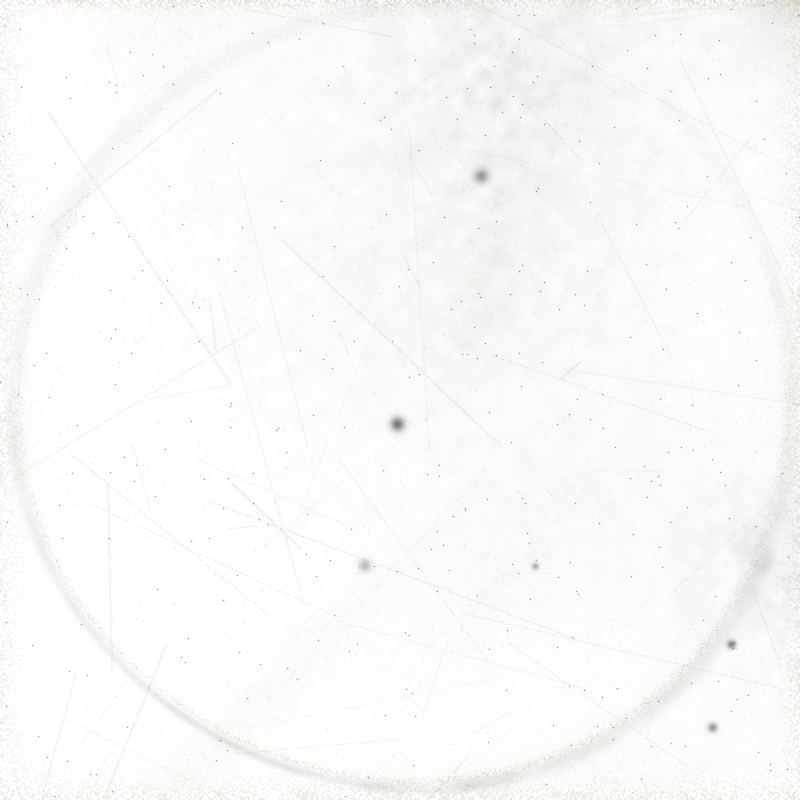
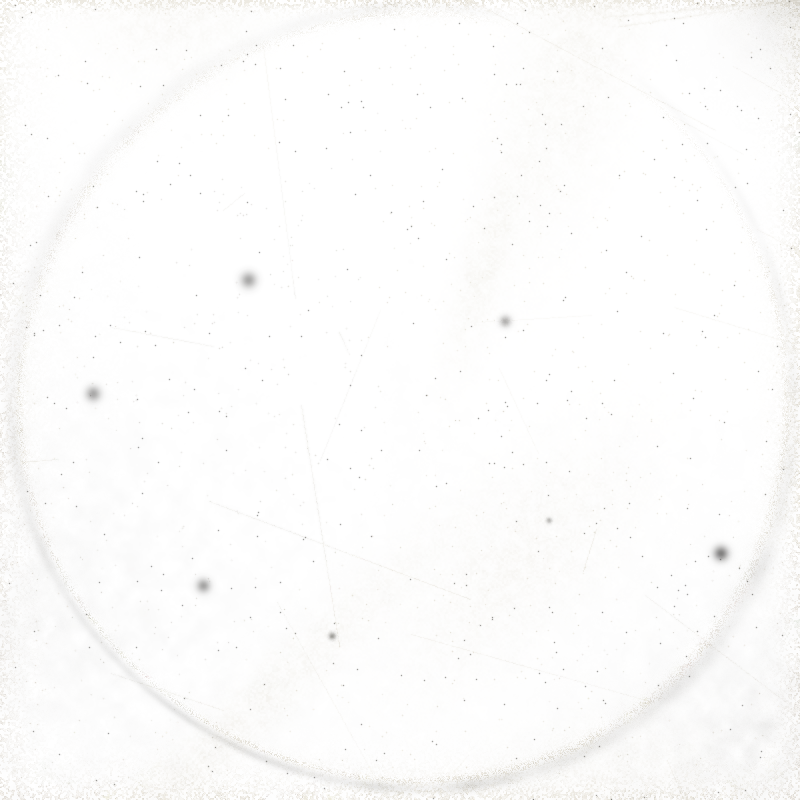
40: wear keyed to cover tone; no stickers; scratches halved and softened
Intensity now scales with how light the cover is: dark covers sit at
medium, pale covers (José González, Andy Shauf) wear heavy so the grime
carries it. Sticker residue is gone. Hairlines are half as many, fainter,
log-spread in length, wander in heading and sometimes break.

Claude-Session: https://claude.ai/code/session_01PbqXtG5SizYecEWh39Pkkj

diff --git a/scripts/make-wear.py b/scripts/make-wear.py
@@ -25,7 +25,7 @@ def blur(a, r):
     if r <= 0: return a
     return np.asarray(Image.fromarray((np.clip(a, 0, 1) * 255).astype(np.uint8)).filter(ImageFilter.GaussianBlur(r))).astype(np.float32) / 255
 
-def make(slug, year=None):
+def make(slug, year=None, art=None):
     seed = int(hashlib.sha1(slug.encode()).hexdigest()[:8], 16)
     rng = np.random.default_rng(seed)
     U = rng.uniform; P = lambda p: rng.random() < p
@@ -42,6 +42,11 @@ def make(slug, year=None):
     # How hard a life: older records have been played and shelved for decades, newer ones barely.
     age = (2026 - int(str(year)[:4])) if year else 20
     life = float(np.clip(.2 + (age / 40) ** 1.6 * 1.2 + U(-.1, .1), .18, 1.45))   # steep: 2005 ≈ half of 1995
+    # Tone: pale fibres barely register on a light cover, so light covers wear heavier; dark covers sit at medium.
+    lum = .35
+    if art and (ROOT / art).exists():
+        lum = float(np.asarray(Image.open(ROOT / art).convert('L').resize((64, 64))).mean() / 255)
+    tone = .85 + .6 * lum
     fibre = (0.35 + 0.65 * noise(2, 2, .6)) * (0.7 + 0.6 * (noise(2, 1) > .45))   # paper fibre: high frequency, partly binary
     light = np.zeros((S, S), np.float32); dark = np.zeros((S, S), np.float32)
 
@@ -111,16 +116,6 @@ def make(slug, year=None):
         d.line(pts, fill=230, width=int(U(2, 6)))
         light += blur(np.asarray(im).astype(np.float32) / 255, 1.2) * 1.2
 
-    # Price sticker ghost: a pale patch with darker residue at its edge.
-    if P(.18) and age > 12:
-        px, py = rng.choice(corners); px += (S * U(.08, .18)) * (1 if px == 0 else -1); py += (S * U(.08, .18)) * (1 if py == 0 else -1)
-        w_, h_ = S * U(.07, .12), S * U(.05, .09)
-        im = Image.new('L', (S, S), 0); d = ImageDraw.Draw(im)
-        d.rounded_rectangle([px - w_ / 2, py - h_ / 2, px + w_ / 2, py + h_ / 2], radius=S * .006, fill=255)
-        st = np.asarray(im).astype(np.float32) / 255
-        light += blur(st, 1.5) * (.08 + noise(10) * .12)
-        dark += (blur(st, 2.5) - blur(st, .6)).clip(0, 1) * .5 * (.5 + noise(8) * .6)
-
     # Scuffs: directional streaks, and soft pale patches.
     for _ in range(int(U(2, 7))):
         a = U(0, math.pi); px, py = U(0, S), U(0, S); Lx, Ly = S * U(.08, .3), S * U(.02, .07)
@@ -128,10 +123,19 @@ def make(slug, year=None):
         light += np.exp(-((ux / Lx) ** 2 + (uy / Ly) ** 2)) * noise(8) * U(.15, .45)
     # Hairlines
     im = Image.new('L', (S, S), 0); d = ImageDraw.Draw(im)
-    for _ in range(int(U(3, 34) * life)):
-        L = U(S * .03, S * .35); a = U(0, math.pi); x0, y0 = U(0, S), U(0, S)
-        d.line([(x0, y0), (x0 + math.cos(a) * L, y0 + math.sin(a) * L)], fill=int(U(50, 190)), width=1)
-    light += blur(np.asarray(im).astype(np.float32) / 255, .5) * .7
+    for _ in range(int(U(1.5, 17) * life)):
+        L = S * math.exp(U(math.log(.02), math.log(.3)))                     # log-spread: most short, a few long
+        a = U(0, math.pi); x, y = U(0, S), U(0, S); pts = [(x, y)]; v = int(U(28, 110))
+        for _k in range(int(U(3, 9))):                                       # wander: a slight change of heading per segment
+            a += U(-.25, .25); seg = L / 6; x += math.cos(a) * seg; y += math.sin(a) * seg; pts.append((x, y))
+            if P(.18): pts.append(None)                                      # a break in the line
+        run = []
+        for q in pts + [None]:
+            if q is None:
+                if len(run) > 1: d.line(run, fill=v, width=1)
+                run = []
+            else: run.append(q)
+    light += blur(np.asarray(im).astype(np.float32) / 255, .4) * .5
     # Speckle
     light += blur((rng.random((S, S)) > 1 - .002 * life).astype(np.float32), .5) * 2
 
@@ -145,14 +149,14 @@ def make(slug, year=None):
             dark += np.exp(-(np.hypot(xx - px, yy - py) / rad) ** 2) * U(.3, .7)
     dark += (rng.random((S, S)) > 1 - .0006 * life).astype(np.float32) * .9
 
-    light = np.clip((light * life * fibre) ** .8 * 1.25, 0, 1); dark = np.clip(blur(dark, .6) * life, 0, .85)
+    light = np.clip((light * life * tone * fibre) ** .8 * 1.25, 0, 1); dark = np.clip(blur(dark, .6) * life * tone, 0, .85)
     # Compose one RGBA overlay for normal blending: grime over fibres.
     a_l = light; a_d = dark
     rgb_l = np.array([238, 234, 226], np.float32); rgb_d = np.array([22, 20, 18], np.float32)
     A = a_d + a_l * (1 - a_d)
     rgb = (rgb_d[None, None] * a_d[..., None] + rgb_l[None, None] * (a_l * (1 - a_d))[..., None]) / np.maximum(A[..., None], 1e-4)
     out = np.dstack([rgb.clip(0, 255).astype(np.uint8), (A * 255).astype(np.uint8)])
-    return Image.fromarray(out, 'RGBA'), dict(life=float(life), age=age)
+    return Image.fromarray(out, 'RGBA'), dict(life=float(life), age=age, tone=tone)
 
 albums = json.loads((ROOT / 'data/albums.json').read_text())['albums']
 for a in albums:
@@ -160,6 +164,6 @@ for a in albums:
     if ONLY and slug not in ONLY: continue
     dst = OUT / f'{slug}.webp'
     if dst.exists() and not FORCE: continue
-    im, meta = make(slug, a.get('year'))
+    im, meta = make(slug, a.get('year'), a.get('art'))
     im.save(dst, 'WEBP', quality=68, method=6)
-    print(f'{slug:52} {a.get("year")} life={meta["life"]:.2f} {dst.stat().st_size // 1024}KB', flush=True)
+    print(f'{slug:52} {a.get("year")} life={meta["life"]:.2f} tone={meta["tone"]:.2f} {dst.stat().st_size // 1024}KB', flush=True)
